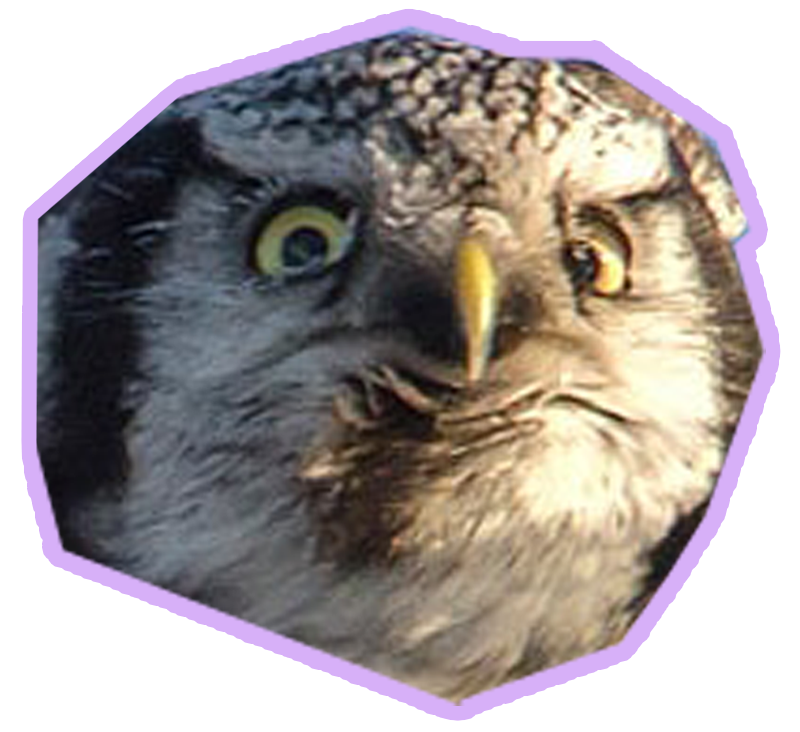
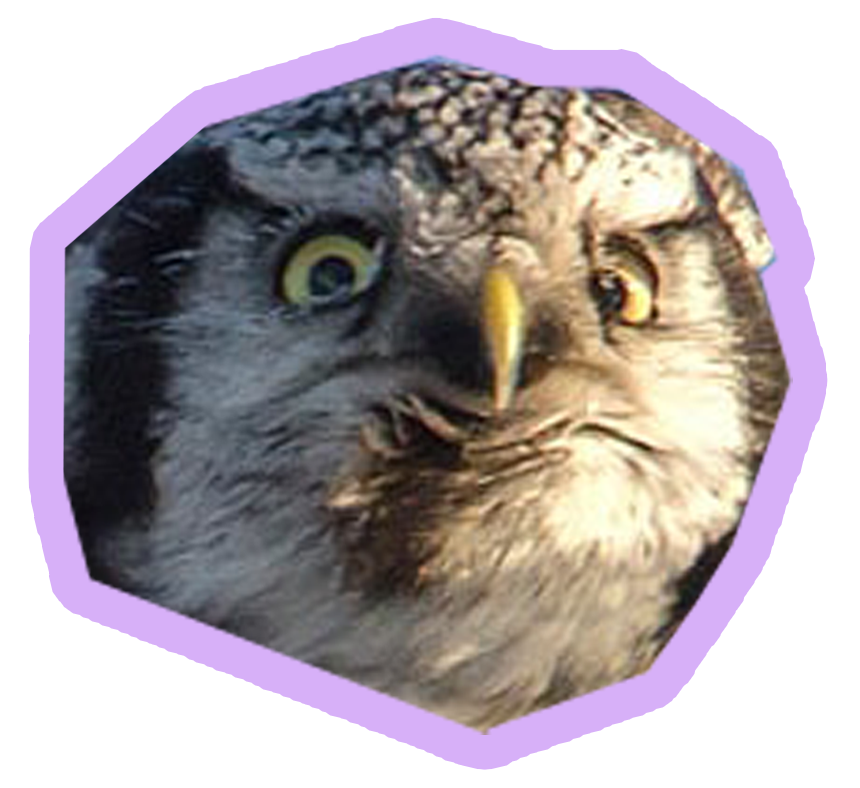
cleanup files

diff --git a/public/css/flapflapstyles.css b/public/css/flapflapstyles.css
@@ -11,7 +11,6 @@ body {
 		height: 100%;
 		min-height: 100%;
 		max-height: 100%;
-		position: relative;
 		margin: auto;
 }
 
@@ -25,7 +24,7 @@ h1 {
 
 a {
 		text-decoration: none;
-		color: black;
+		color: white;
 		font-weight: bold;
 }
 a:hover {
@@ -38,7 +37,6 @@ a:hover {
 		align-items: center;
 		justify-content: center;
 }
-
 .flexRowStyle {
 		display: flex;
 		flex-direction: row;
@@ -48,7 +46,7 @@ a:hover {
 
 /* content style */
 .containerStyle {
-		max-width: 1100px;
+		max-width: 900px;
 		width: 100%;
 		height: inherit;
 		position: relative;
@@ -73,25 +71,27 @@ a:hover {
 
 /* image owl style */
 #Owl {
-		width: 500px;
+		display: flex;
+		flex-direction: row;
+		flex-wrap: nowrap;
+		justify-content: space-between;
+		align-items: center;
+		width: inherit;
 		height: 500px;
 		overflow: hidden;
 		position: relative;
 }
+
 #imageBody {
-		position: absolute;
-		height: inherit;
-		width: inherit;
-		top: 0px;
-		left: 0px;
-		z-index: 100;
+		width: 500px;
+		height: 500px;
 }
 #imageHead {
 		position: absolute;
 		height: 170px;
 		width: 170px;
-		right: 0px;
-		top: 170px;
+		right: 3px;
+		top: 165px;
 		z-index: 101;
 }
 #imageFire {
@@ -100,7 +100,7 @@ a:hover {
 		width: 150px;
 		display: none;
 		top: 0px;
-		right: 0px;
+		right: -5px;
 		z-index: 99;
 }
 
@@ -112,77 +112,57 @@ a:hover {
 		color: black;
 		padding: 10px 0;
 		font-weight: bold;
-		background-image: linear-gradient(45deg, white 25%, transparent 25%), linear-gradient(-45deg, white 25%, transparent 25%), linear-gradient(45deg, transparent 75%, white 75%), linear-gradient(-45deg, transparent 75%, white 75%);
-		background-size: 20px 20px;
-		background-position: 0 0, 0 10px, 10px -10px, -10px 0px;
+		background-color: #6bb7e4;
 		position: fixed;
 		bottom: 0;
+		border-top: solid white 5px;
 }
 
 /* MOBILE */
 /* small desktops */
-@media (min-width: 768px) and (max-width: 1096px) {
+@media only screen and (max-width: 760px) {
+	/* content style */
 	.containerStyle {
 			max-width: 800px;
+			padding: 10px;
 	}
 
+	/* image owl style */
 	#Owl {
-			width: 500px;
-			height: 500px;
+			flex-direction: column;
+			height: inherit;
+			width: 250px;
 	}
+
 	#imageBody {
-			left: -50px;
+			width: inherit;
+			height: 350px;
+			z-index: 100;
 	}
 	#imageHead {
-			height: 150px;
+			height: 90px;
+			width: 90px;
+			top: 328px;
+	}
+	#imageFire {
 			width: 150px;
+			top: 0px;
+			right: -5px;
 	}
+
 }
 
-/* small tablets/mobile */
-@media (min-width: 321px)and (max-width: 767px) {
+/* mobile */
+@media only screen and (max-width: 400px) {
+	/* universal style */
 	.flexRowStyle {
 			flex-direction: column;
 	}
-	.containerStyle {
-			max-width: 555px;
-	}
 
-	#Owl {
-			max-width: 555px;
-			width: 100%;
-	}
-	#imageBody {
-			left: -30px;
-	}
-	#imageHead {
-			height: 130px;
-			width: 130px;
-			right: 30px;
-			top: 190px;
-	}
-}
-
-/* super small mobile */
-@media (max-width: 320px) {
-	.flexRowStyle {
-			flex-direction: column;
-	}
+	/* content style */
 	.containerStyle {
 			max-width: 500px;
 	}
 
-	#Owl {
-			max-width: 500px;
-			width: 100%;
-	}
-	#imageBody {
-			left: -30px;
-	}
-	#imageHead {
-			height: 130px;
-			width: 130px;
-			right: 30px;
-			top: 190px;
-	}
+	/* image owl style */
 }

diff --git a/index.html b/index.html
@@ -40,8 +40,9 @@
 	<body>
 		<section id="Flap-Flap-Main" class="containerStyle flexRowStyle">
 			<button id="pressButton" onclick="changeImage();"></button>
-			<h1>Click for a surprise.</h1>
 			<div id="Owl">
+				<h1>Click for a surprise.</h1>
+
 				<img id="imageBody" src="./public/images/owl.gif" />
 				<img id="imageHead" src="./public/images/head1.png" />
 				<img id="imageFire" src="./public/images/fire.gif" />
